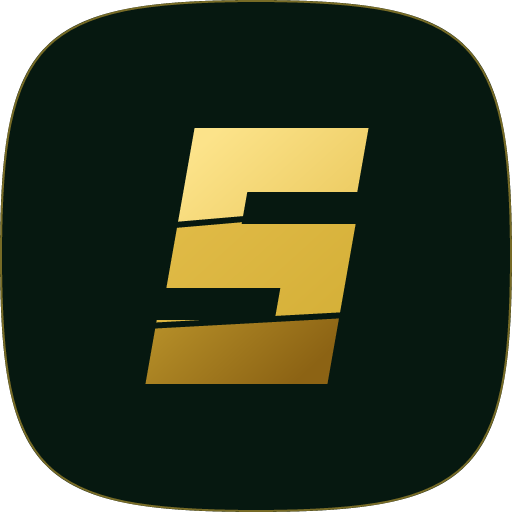
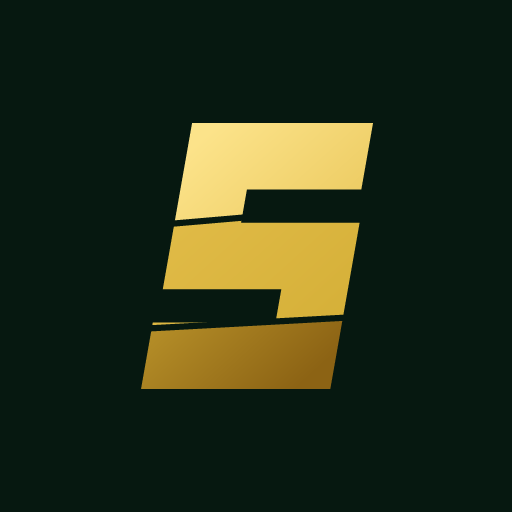
Actualizacion ClubStacks: Presidente, UNO y salas

diff --git a/src/components/ui/Logo.tsx b/src/components/ui/Logo.tsx
@@ -2,28 +2,26 @@
 export type LogoSize = 'sm' | 'md' | 'lg' | number;
 const LOGO_PX = { sm: 32, md: 56, lg: 96 } as const;
 
-/** Isotipo de STACKS: «S» monolítica de tres segmentos diagonales facetados, en oro metálico sobre un squircle esmeralda. */
+/** Isotipo de STACKS: «S» monolítica de tres segmentos diagonales facetados en oro metálico, suelta (sin cuadrado ni borde). */
 export function Logo({ size = 'md' }: { size?: LogoSize }) {
   const px = typeof size === 'number' ? size : LOGO_PX[size];
   return (
-    <svg viewBox="0 0 512 512" width={px} height={px} role="img" aria-label="STACKS">
+    <svg viewBox="96 96 320 320" width={px} height={px} role="img" aria-label="STACKS" style={{ display: 'block' }}>
       <defs>
         <linearGradient id="lg-top" x1="0" y1="0" x2="1" y2="1"><stop offset="0" stopColor="#FCE38A" /><stop offset="1" stopColor="#E3BD4A" /></linearGradient>
         <linearGradient id="lg-mid" x1="0" y1="0" x2="1" y2="1"><stop offset="0" stopColor="#E3BD4A" /><stop offset="1" stopColor="#D4AF37" /></linearGradient>
         <linearGradient id="lg-low" x1="0" y1="0" x2="1" y2="1"><stop offset="0" stopColor="#D4AF37" /><stop offset="1" stopColor="#8C6314" /></linearGradient>
-        <clipPath id="lg-c1"><polygon points="0,0 512,0 512,196 0,240" /></clipPath>
-        <clipPath id="lg-c2"><polygon points="0,240 512,196 512,306 0,334" /></clipPath>
-        <clipPath id="lg-c3"><polygon points="0,334 512,306 512,512 0,512" /></clipPath>
-        <clipPath id="lg-sq"><path d="M0 256C0 38 38 0 256 0S512 38 512 256 474 512 256 512 0 474 0 256Z" /></clipPath>
+        <clipPath id="lg-c1"><polygon points="0,0 512,0 512,193 0,237" /></clipPath>
+        <clipPath id="lg-c2"><polygon points="0,243 512,199 512,303 0,331" /></clipPath>
+        <clipPath id="lg-c3"><polygon points="0,337 512,309 512,512 0,512" /></clipPath>
       </defs>
-      <g clipPath="url(#lg-sq)">
-        <rect width="512" height="512" fill="#061810" />
-        <g clipPath="url(#lg-c1)"><g transform="translate(256 256) skewX(-10) translate(-256 -256)"><path d="M346 160H204V256H318V352H168" fill="none" stroke="url(#lg-top)" strokeWidth="64" strokeLinejoin="miter" strokeMiterlimit="10" /></g></g>
-        <g clipPath="url(#lg-c2)"><g transform="translate(256 256) skewX(-10) translate(-256 -256)"><path d="M346 160H204V256H318V352H168" fill="none" stroke="url(#lg-mid)" strokeWidth="64" strokeLinejoin="miter" strokeMiterlimit="10" /></g></g>
-        <g clipPath="url(#lg-c3)"><g transform="translate(256 256) skewX(-10) translate(-256 -256)"><path d="M346 160H204V256H318V352H168" fill="none" stroke="url(#lg-low)" strokeWidth="64" strokeLinejoin="miter" strokeMiterlimit="10" /></g></g>
-        <path d="M0 240L512 196M0 334L512 306" stroke="#061810" strokeWidth="6" />
-      </g>
-      <path d="M0 256C0 38 38 0 256 0S512 38 512 256 474 512 256 512 0 474 0 256Z" fill="none" stroke="#D4AF37" strokeOpacity=".55" strokeWidth="2" transform="translate(1 1) scale(.9961)" />
+      {[['lg-c1', 'lg-top'], ['lg-c2', 'lg-mid'], ['lg-c3', 'lg-low']].map(([c, f]) => (
+        <g key={c} clipPath={`url(#${c})`}>
+          <g transform="translate(256 256) skewX(-10) translate(-256 -256)">
+            <path d="M346 160H204V256H318V352H168" fill="none" stroke={`url(#${f})`} strokeWidth="64" strokeLinejoin="miter" strokeMiterlimit="10" />
+          </g>
+        </g>
+      ))}
     </svg>
   );
 }

diff --git a/index.html b/index.html
@@ -11,19 +11,19 @@
     <meta name="apple-mobile-web-app-title" content="STACKS" />
     <meta name="description" content="STACKS: el club de cartas con los mejores juegos de baraja española y casino. Fichas virtuales gratis." />
     <link rel="manifest" href="manifest.webmanifest" />
-    <link rel="icon" href="favicon.svg?v=4" type="image/svg+xml" />
-    <link rel="icon" href="favicon.ico?v=4" sizes="16x16 32x32 48x48" />
-    <link rel="shortcut icon" href="favicon.ico?v=4" />
-    <link rel="apple-touch-icon" href="apple-touch-icon.png?v=4" />
-    <link rel="apple-touch-icon-precomposed" href="apple-touch-icon-precomposed.png?v=4" />
+    <link rel="icon" href="favicon.svg?v=5" type="image/svg+xml" />
+    <link rel="icon" href="favicon.ico?v=5" sizes="16x16 32x32 48x48" />
+    <link rel="shortcut icon" href="favicon.ico?v=5" />
+    <link rel="apple-touch-icon" href="apple-touch-icon.png?v=5" />
+    <link rel="apple-touch-icon-precomposed" href="apple-touch-icon-precomposed.png?v=5" />
     <meta property="og:type" content="website" />
     <meta property="og:title" content="STACKS · Club de cartas" />
     <meta property="og:description" content="Los mejores juegos de cartas de España y del casino, con fichas virtuales gratis." />
-    <meta property="og:image" content="https://clubstacks.vercel.app/og-image.png?v=4" />
+    <meta property="og:image" content="https://clubstacks.vercel.app/og-image.png?v=5" />
     <meta property="og:image:width" content="1200" />
     <meta property="og:image:height" content="630" />
     <meta name="twitter:card" content="summary_large_image" />
-    <meta name="twitter:image" content="https://clubstacks.vercel.app/og-image.png?v=4" />
+    <meta name="twitter:image" content="https://clubstacks.vercel.app/og-image.png?v=5" />
     <link rel="preconnect" href="https://fonts.googleapis.com" />
     <link rel="preconnect" href="https://fonts.gstatic.com" crossorigin />
     <link

diff --git a/src/components/ui/WelcomeGate.tsx b/src/components/ui/WelcomeGate.tsx
@@ -14,10 +14,10 @@ export function WelcomeGate({ children }: { children: ReactNode }) {
     <div className="fixed inset-0 z-[100] overflow-y-auto overscroll-contain" style={{ WebkitOverflowScrolling: 'touch' }}>
     <div className="grid min-h-full place-items-center px-4 py-6" style={{ paddingTop: 'max(24px, env(safe-area-inset-top))', paddingBottom: 'max(24px, env(safe-area-inset-bottom))' }}>
       <motion.div initial={{ opacity: 0, y: 20 }} animate={{ opacity: 1, y: 0 }} className="w-full max-w-sm rounded-3xl border border-amber-500/30 bg-slate-900/90 p-5 shadow-[0_24px_70px_rgba(0,0,0,.65)]">
-        <div className="mb-4 grid justify-items-center text-center">
+        <div className="mb-5 grid justify-items-center gap-4 text-center">
           <Logo size="lg" />
           <h1 aria-label={APP_NAME}><Wordmark size={26} /></h1>
-          <p className="mt-1 text-[12px] text-stone-400">Crea tu perfil para entrar a la mesa</p>
+          <p className="text-[12px] text-stone-400">Crea tu perfil para entrar a la mesa</p>
         </div>
         <ProfileEditor initial={{ name: '', title: TITLES[3], avatar: 0, photo: null }} submitLabel="Entrar al club" onSubmit={saveProfile} />
       </motion.div>
